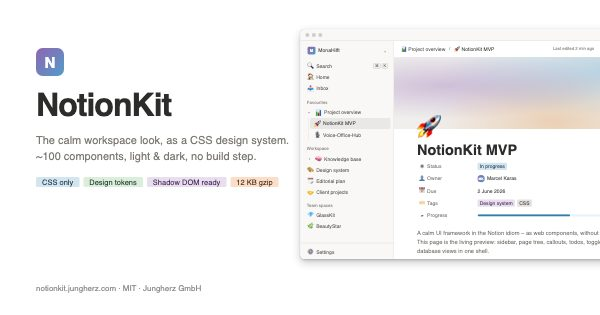
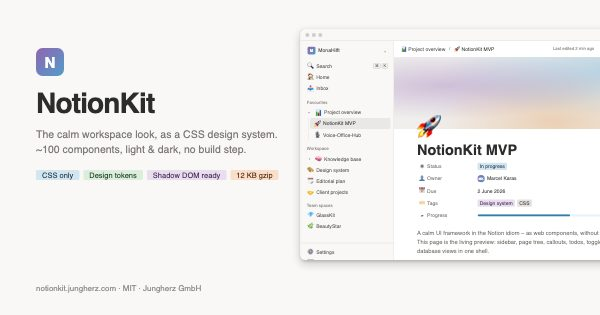
Social card: the original card's type sizes, background and light theme message back, the size tag from the build

Changed region(s): [[0.06, 0.4, 0.48, 0.6], [0.06, 0.2857, 0.3, 0.3714], [0.54, 0.8, 1.0, 0.8286]]

diff --git a/tools/assets/og-card.html b/tools/assets/og-card.html
@@ -7,12 +7,12 @@
 <link rel="stylesheet" href="../../notionkit.css">
 <style>
   html, body { margin: 0; width: 1200px; height: 630px; overflow: hidden; }
-  body { background: var(--nk-bg-sidebar); }
+  body { background: var(--nk-bg-sidebar); font-family: var(--nk-font); color: var(--nk-text); }
   .card { position: relative; width: 1200px; height: 630px; }
   .text { position: absolute; left: 72px; top: 96px; width: 520px; }
   .text .mark { width: 56px; height: 56px; border-radius: 13px; background: linear-gradient(135deg, var(--nk-decor-purple), var(--nk-decor-blue)); color: #fff; font-size: 30px; font-weight: 700; display: flex; align-items: center; justify-content: center; margin-bottom: 26px; }
-  .text h1 { font-size: 64px; font-weight: 700; letter-spacing: -0.03em; line-height: 1; margin: 0 0 22px; }
-  .text p { font-size: 22px; line-height: 1.45; color: var(--nk-text-secondary); margin: 0 0 26px; }
+  .text h1 { font-size: 56px; font-weight: 700; letter-spacing: -0.03em; line-height: 1.02; margin: 0 0 18px; }
+  .text p { font-size: 21px; line-height: 1.45; color: var(--nk-text-secondary); margin: 0 0 26px; }
   .tags { display: flex; gap: 8px; flex-wrap: wrap; }
   .tags .nk-tag { font-size: 15px; padding: 3px 12px; }
   .shot { position: absolute; left: 600px; top: 58px; width: 1000px; height: 640px; transform: scale(.72); transform-origin: top left;
@@ -23,7 +23,7 @@
   .foot { position: absolute; left: 72px; bottom: 44px; font-size: 16px; color: var(--nk-text-tertiary); }
 </style>
 </head>
-<body class="nk-body">
+<body>
 <div class="card">
   <div class="text">
     <div class="mark">N</div>
@@ -31,7 +31,7 @@
     <p>The calm workspace look, as a CSS design system. ~100 components, light &amp; dark, no build step.</p>
     <div class="tags"><span class="nk-tag blue">CSS only</span><span class="nk-tag green">Design tokens</span><span class="nk-tag purple">Shadow DOM ready</span><span class="nk-tag orange" id="gz">≤ 14 KB gzip</span></div>
   </div>
-  <div class="shot"><div class="bar"><i></i><i></i><i></i></div><iframe src="../../app.html"></iframe></div>
+  <div class="shot"><div class="bar"><i></i><i></i><i></i></div><iframe src="../../app.html" onload="this.contentWindow.postMessage({nkTheme:'light'},'*')"></iframe></div>
   <div class="foot">notionkit.jungherz.com · MIT · Jungherz GmbH</div>
 </div>
 </body>
